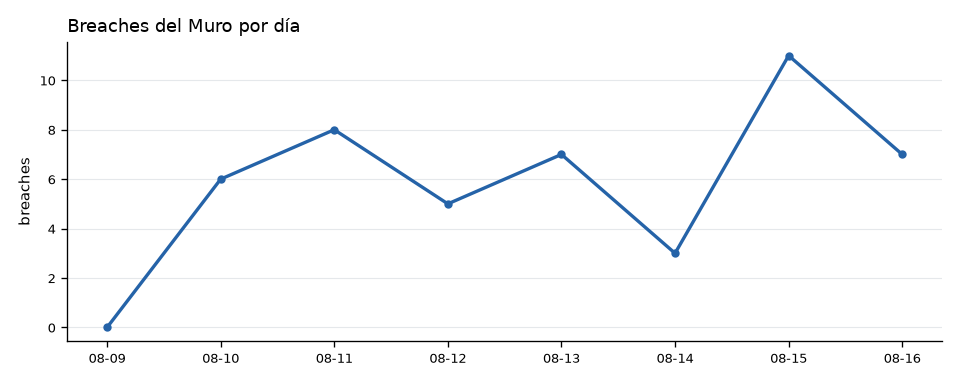
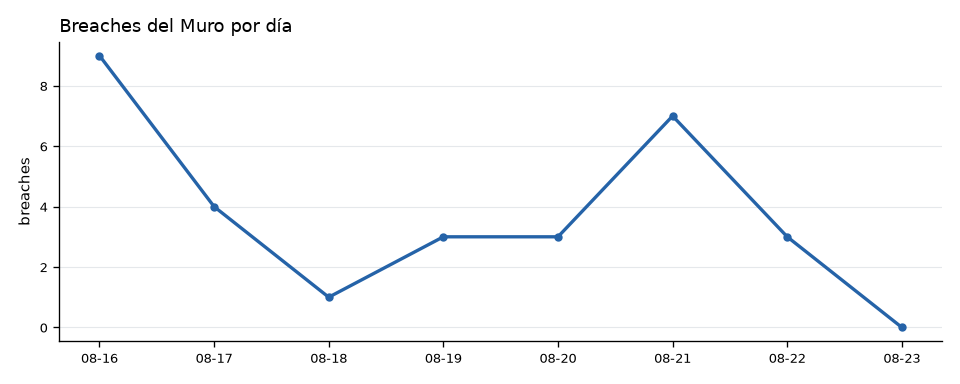
🌍 Reporte Roy 2026-08-23 18:49 UTC

diff --git a/estado/REPORTE_SEMANAL.md b/estado/REPORTE_SEMANAL.md
@@ -1,29 +1,29 @@
 # 📅 Reporte semanal — Sentinel Omega
-*Generado 2026-08-16 12:47 hora MX — ventana 7 días*
+*Generado 2026-08-23 12:49 hora MX — ventana 7 días*
 
 ## Resumen
-- Ciclos corridos: **89**
-- Fantasma medio del periodo: **10.4**
-- Fantasma máximo: **27.5**
-- Breaches del Muro: **47**
-- Asertividad viva del periodo: **43%** (n=44 resueltas)
+- Ciclos corridos: **93**
+- Fantasma medio del periodo: **10.0**
+- Fantasma máximo: **21.3**
+- Breaches del Muro: **30**
+- Asertividad viva del periodo: **26%** (n=38 resueltas)
 
 ## Cimática
-- Patrones `general`: 213 (frecuencia máx 9)
-- Patrones `nodo`: 598 (frecuencia máx 12)
+- Patrones `general`: 260 (frecuencia máx 10)
+- Patrones `nodo`: 717 (frecuencia máx 12)
 
 | Patrón | Ámbito | Evento asociado | Frecuencia |
 |---|---|---|---:|
 | 163 | nodo 14 | SISMO_M6 | 12 |
 | 313 | nodo 14 | SISMO_M6 | 11 |
-| 800 | general | SISMO_M5 | 9 |
+| 800 | general | SISMO_M5 | 10 |
 | 801 | nodo 48 | SISMO_M5 | 9 |
 | 451 | general | SISMO_M6 | 8 |
 | 452 | nodo 35 | SISMO_M6 | 8 |
 | 456 | nodo 14 | SISMO_M6 | 8 |
 | 635 | nodo 14 | SISMO_M5 | 8 |
+| 973 | nodo 14 | SISMO_M5 | 8 |
 | 335 | nodo 14 | SISMO_M5 | 7 |
-| 753 | nodo 14 | SISMO_M5 | 7 |
 
 ![Fantasma medio diario](graficas/semanal_fantasma.png)
 ![Alertas por día](graficas/semanal_alertas.png)
